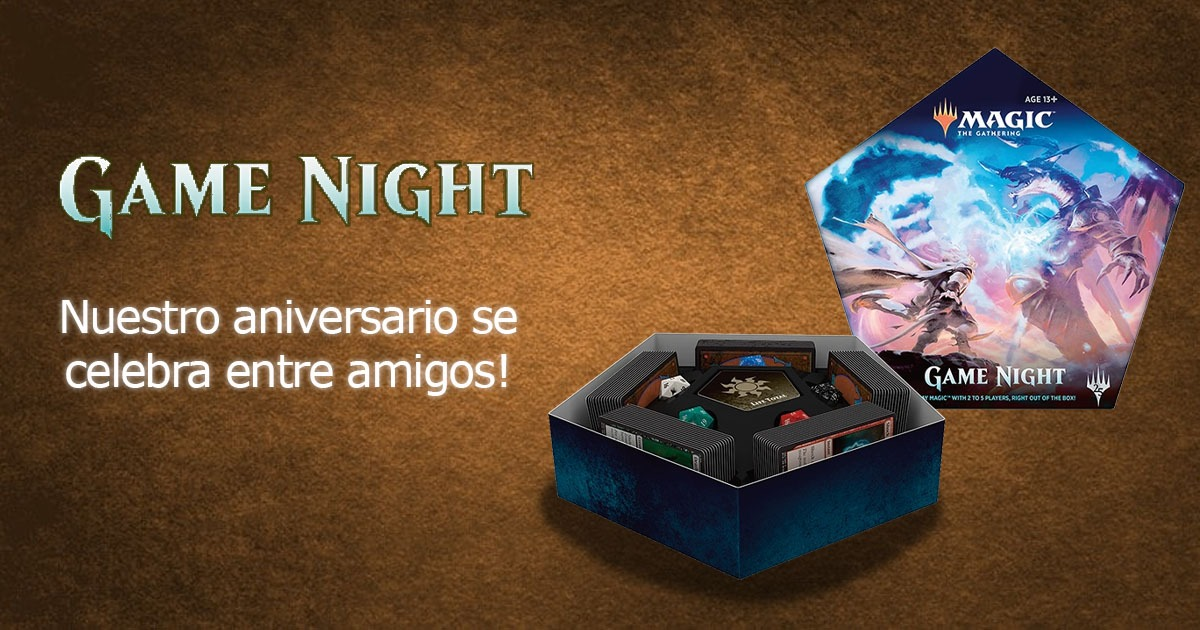
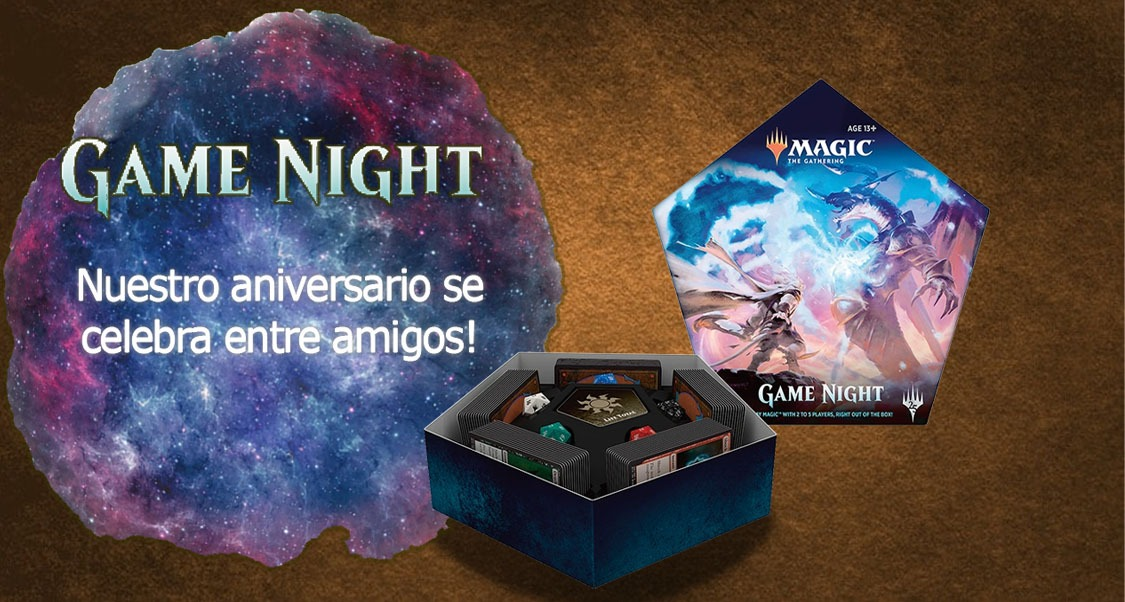
New format

diff --git a/HTML/index.html b/HTML/index.html
@@ -7,7 +7,8 @@
     <link href="https://cdn.jsdelivr.net/npm/bootstrap@5.3.2/dist/css/bootstrap.min.css" rel="stylesheet" integrity="sha384-T3c6CoIi6uLrA9TneNEoa7RxnatzjcDSCmG1MXxSR1GAsXEV/Dwwykc2MPK8M2HN" crossorigin="anonymous">
     <link rel="stylesheet" href="css/estilos.css">
   </head>
-  <body class="bg-dark.bg-gradient">
+
+  <body class="bg-dark.bg-gradient text-bg-dark">
 
     <header class="p_bottom">
 
@@ -64,16 +65,16 @@
 
     </header>
 
-    <main class="container p_bottom">
+    <main class="container-fluid p_bottom">
 
 
-        <div class="row border border-black border-5" style="height: 400px;">
-          <div class="col-12 col-md-8">
+        <div class="d-flex flex-row border border-black border-5 rounded container " style="height: 400px;">
+          <div class="col-12 col-md-8 p-4">
             <h2 class="text-center">
-              Texto Random
+              TE DAMOS LA BIENVENIDA A MAGIC: THE GATHERING
             </h2>
             <p>
-              A paragraph of placeholder text. We're using it here to show the use of the clearfix class. We're adding quite a few meaningless phrases here to demonstrate how the columns interact here with the floated image.
+              Magic es un juego de cartas intercambiables y coleccionables en el que libras partidas repletas de diversión y estrategia con amigos nuevos y conocidos. Magic cuenta con una infinidad de maneras de jugar y tiene algo para todo el mundo, desde los fanáticos de la creación de mundos y los amantes de la narrativa hasta los entusiastas del juego estratégico.
             </p>
             <a href="#" class="btn btn-primary">Conoce el juego</a>
           </div>
@@ -85,9 +86,9 @@
 
         <div style="height: 150px;"></div>
 
-        <div class="row border border-black border-5" style="height: 400px;">
+        <div class="d-flex flex-row border border-black border-5 rounded container" style="height: 400px;">
 
-          <div class="col-12 col-md-6">
+          <div class="col-12 col-md-6 p-4">
             <h2 class="text-center">
               Nuestros productos
             </h2>
@@ -117,15 +118,15 @@
 
         <div style="height: 150px;"></div>
 
-        <div class="row border border-black border-5" style="height: 400px;">
-          <div class="col-12 col-md-8">
+        <div class="d-flex flex-row border border-black border-5 rounded container" style="height: 400px;">
+          <div class="col-12 col-md-8 p-4">
             <h2 class="text-center">
-              Nuestra historia
+              Magic: The Gathering
             </h2>
             <p>
-              Conoce nuestra historia
+              Magic: The Gathering, frecuentemente abreviado como Magic, MTG y Cartas Magic, es un juego de cartas coleccionables diseñado en 1993 por Richard Garfield, profesor de matemáticas, y comercializado por la empresa Wizards of the Coast. Magic es el primer ejemplo de juego de cartas coleccionables moderno, con más de seis millones de jugadores en cincuenta y dos países diferentes.
             </p>
-            <a href="#" class="btn btn-primary">Ver mas</a>
+            <a href="#" class="btn btn-primary">Saber mas</a>
           </div>
 
           <div class="col d-flex">
@@ -136,9 +137,11 @@
 
         <div style="height: 150px;"></div>
 
-        <div class="row border border-black border-5" style="height: 400px;">
+        <div class="img-fluid fondo_img">
+        
 
-          <div class="col-12 col-md-6">
+        <div class="d-flex flex-row border border-black border-5 rounded container" style="height: 400px;">
+          <div class="col-12 col-md-6 p-4">
             <h2 class="text-center">
               Contacto
             </h2>
@@ -147,7 +150,6 @@
             </p>
             <a href="#" class="btn btn-primary">Ver mas</a>
           </div>
-
           <div id="carouselExampleFade" class="carousel slide carousel-fade d-flex col" data-bs-ride="carousel">
             <div class="carousel-inner col-md-4 float-md-end mb-3 ms-md-3 d-block w-100 p-4">
               <div class="carousel-item active" data-bs-interval="2000">
@@ -161,11 +163,9 @@
               </div>
             </div>
           </div>
-
-          
-
         </div>
-        
+
+      </div>
     </main>
 
     <footer>

diff --git a/HTML/css/estilos.css b/HTML/css/estilos.css
@@ -5,3 +5,7 @@
 .center_img {
     margin: auto;
 }
+
+.fondo_img {
+    background-image: url(../img/background_div.jpg);
+}
